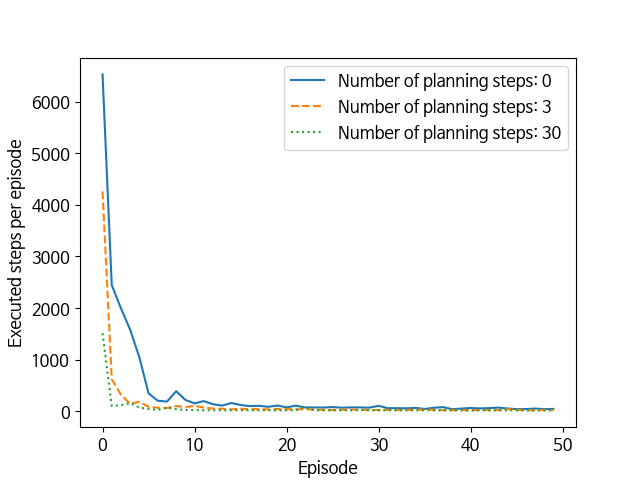
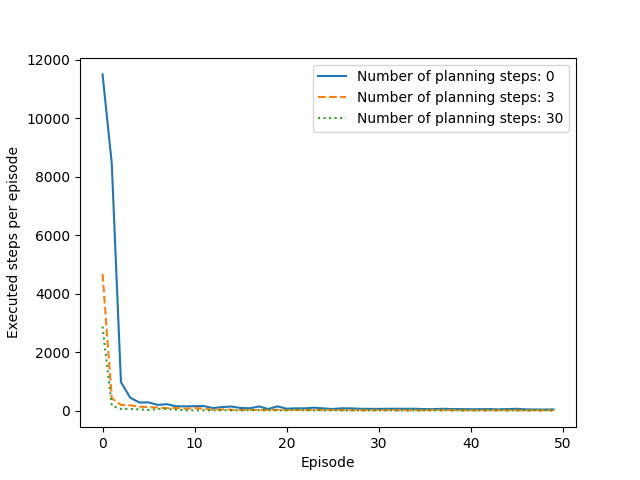
...

diff --git a/basic2/practice_4/cliff_dyna_q.py b/basic2/practice_4/cliff_dyna_q.py
@@ -4,7 +4,18 @@ import random
 import numpy as np
 import matplotlib.pyplot as plt
 
-from basic.practice_1.maze import Maze
+from basic.practice_1.gridworld import GridWorld
+
+# 그리드월드 높이와 너비
+GRID_HEIGHT = 4
+GRID_WIDTH = 12
+
+NUM_ACTIONS = 4
+
+# 초기 상태와 종료 상태
+START_STATE = (3, 0)
+TERMINAL_STATES = [(3, 11)]
+CLIFF_STATES = [(3, 1), (3, 2), (3, 3), (3, 4), (3, 5), (3, 6), (3, 7), (3, 8), (3, 9), (3, 10)]
 
 # 최대 에피소드
 MAX_EPISODES = 50
@@ -42,7 +53,7 @@ class EnvModel:
 
         self.model[state][action] = [reward, next_state]
 
-    # 저장해 둔 경험 샘플들에서 임으로 선택하여 반환
+    # 저장해 둔 경험 샘플들에서 임으로 선택하여 반환험
     def sample(self):
         state = random.choice(list(self.model.keys()))
         action = random.choice(list(self.model[state].keys()))
@@ -52,11 +63,11 @@ class EnvModel:
 
 # 비어있는 행동 가치 함수를 0~1 사이의 임의의 값으로 초기화하며 생성함
 def generate_initial_q_value(env):
-    q_table = np.zeros((env.MAZE_HEIGHT, env.MAZE_WIDTH, env.action_space.NUM_ACTIONS))
+    q_table = np.zeros((GRID_HEIGHT, GRID_WIDTH, env.action_space.NUM_ACTIONS))
 
-    for i in range(env.MAZE_HEIGHT):
-        for j in range(env.MAZE_WIDTH):
-            if (i, j) not in env.observation_space.GOAL_STATES:
+    for i in range(GRID_HEIGHT):
+        for j in range(GRID_WIDTH):
+            if (i, j) not in env.observation_space.TERMINAL_STATES:
                 for action in env.action_space.ACTIONS:
                     q_table[i, j, action] = random.random()
     return q_table
@@ -67,9 +78,9 @@ def generate_initial_q_value(env):
 def generate_initial_random_policy(env):
     policy = dict()
 
-    for i in range(env.MAZE_HEIGHT):
-        for j in range(env.MAZE_WIDTH):
-            if (i, j) not in env.observation_space.GOAL_STATES:
+    for i in range(GRID_HEIGHT):
+        for j in range(GRID_WIDTH):
+            if (i, j) not in env.observation_space.TERMINAL_STATES:
                 actions = []
                 prob = []
                 for action in env.action_space.ACTIONS:
@@ -146,7 +157,7 @@ def dyna_q(q_table, policy, env_model, env, episode, planning_repeat, step_size=
     return steps, rewards
 
 
-def maze_dyna_q(env):
+def cliff_dyna_q(env):
     planning_repeats = [0, 3, 30]
     performance_steps = np.zeros((len(planning_repeats), MAX_EPISODES))
 
@@ -174,7 +185,7 @@ def maze_dyna_q(env):
     plt.xlabel('Episode')
     plt.ylabel('Executed steps per episode')
     plt.legend()
-    plt.savefig('images/maze_dyna_q.png')
+    plt.savefig('images/cliff_dyna_q.png')
     plt.close()
 
 
@@ -183,8 +194,15 @@ if __name__ == '__main__':
     if not os.path.exists('images/'):
         os.makedirs('images/')
 
-    env = Maze()  # 미로 환경 객체 구성
-    env.reset()
-    print(env)
+    env = GridWorld(
+        height=GRID_HEIGHT,
+        width=GRID_WIDTH,
+        start_state=START_STATE,
+        terminal_states=TERMINAL_STATES,
+        transition_reward=-1.0,
+        terminal_reward=-1.0,
+        outward_reward=-1.0,
+        warm_hole_states=[(s, START_STATE, -100.0) for s in CLIFF_STATES]
+    )
 
-    maze_dyna_q(env)
+    cliff_dyna_q(env)

diff --git a/basic2/practice_3/cliff_td_scheduled_comparison.py b/basic2/practice_3/cliff_td_scheduled_comparison.py
@@ -22,11 +22,16 @@ START_STATE = (3, 0)
 TERMINAL_STATES = [(3, 11)]
 CLIFF_STATES = [(3, 1), (3, 2), (3, 3), (3, 4), (3, 5), (3, 6), (3, 7), (3, 8), (3, 9), (3, 10)]
 
+# 최대 에피소드
 MAX_EPISODES = 500
 
+# 탐색(exploration) 확률 파라미터
 INITIAL_EPSILON = 0.1
 FINAL_EPSILON = 0.01
 LAST_SCHEDULED_EPISODES = 350
+
+# 총 실험 횟수 (성능에 대한 평균을 구하기 위함)
+TOTAL_RUNS = 25
 
 
 def epsilon_scheduled(current_episode):
@@ -204,9 +209,6 @@ def print_optimal_policy(env, q_value):
 
 
 def td_comparison(env):
-    # 25번의 실험
-    runs = 25
-
     rewards_expected_sarsa = np.zeros(MAX_EPISODES)
     rewards_sarsa = np.zeros(MAX_EPISODES)
     rewards_q_learning = np.zeros(MAX_EPISODES)
@@ -216,7 +218,7 @@ def td_comparison(env):
     q_table_q_learning = None
     q_table_expected_sarsa = None
 
-    for run in range(runs):
+    for run in range(TOTAL_RUNS):
         print("runs: {0}".format(run))
 
         # 초기 Q-Table 생성
@@ -234,10 +236,10 @@ def td_comparison(env):
             rewards_q_learning[episode] += q_learning(env, q_table_q_learning, policy_q_learning, episode)
             rewards_expected_sarsa[episode] += expected_sarsa(env, q_table_expected_sarsa, policy_expected_sarsa, episode)
 
-    # 50번의 수행에 대해 평균 계산
-    rewards_expected_sarsa /= runs
-    rewards_sarsa /= runs
-    rewards_q_learning /= runs
+    # 총 25번의 수행에 대해 평균 계산
+    rewards_expected_sarsa /= TOTAL_RUNS
+    rewards_sarsa /= TOTAL_RUNS
+    rewards_q_learning /= TOTAL_RUNS
 
     # 그래프 출력
     plt.plot(rewards_sarsa, linestyle='-', color='darkorange', label='SARSA')

diff --git a/basic2/practice_3/cliff_td_comparison.py b/basic2/practice_3/cliff_td_comparison.py
@@ -25,8 +25,11 @@ START_STATE = (3, 0)
 TERMINAL_STATES = [(3, 11)]
 CLIFF_STATES = [(3, 1), (3, 2), (3, 3), (3, 4), (3, 5), (3, 6), (3, 7), (3, 8), (3, 9), (3, 10)]
 
+# 최대 에피소드
 MAX_EPISODES = 500
 
+# 총 실험 횟수 (성능에 대한 평균을 구하기 위함)
+TOTAL_RUNS = 25
 
 # 비어있는 행동 가치 함수를 0~1 사이의 임의의 값으로 초기화하며 생성함
 def generate_initial_q_value(env):
@@ -194,9 +197,6 @@ def print_optimal_policy(env, q_value):
 
 
 def td_comparison(env):
-    # 25번의 실험
-    runs = 25
-
     rewards_expected_sarsa = np.zeros(MAX_EPISODES)
     rewards_sarsa = np.zeros(MAX_EPISODES)
     rewards_q_learning = np.zeros(MAX_EPISODES)
@@ -206,7 +206,7 @@ def td_comparison(env):
     q_table_q_learning = None
     q_table_expected_sarsa = None
 
-    for run in range(runs):
+    for run in range(TOTAL_RUNS):
         print("runs: {0}".format(run))
 
         # 초기 Q-Table 생성
@@ -224,10 +224,10 @@ def td_comparison(env):
             rewards_q_learning[episode] += q_learning(env, q_table_q_learning, policy_q_learning)
             rewards_expected_sarsa[episode] += expected_sarsa(env, q_table_expected_sarsa, policy_expected_sarsa)
 
-    # 50번의 수행에 대해 평균 계산
-    rewards_expected_sarsa /= runs
-    rewards_sarsa /= runs
-    rewards_q_learning /= runs
+    # 총 25번의 수행에 대해 평균 계산
+    rewards_sarsa /= TOTAL_RUNS
+    rewards_q_learning /= TOTAL_RUNS
+    rewards_expected_sarsa /= TOTAL_RUNS
 
     # 그래프 출력
     plt.plot(rewards_sarsa, linestyle='-', color='darkorange', label='SARSA')

diff --git a/utils/util.py b/utils/util.py
@@ -213,35 +213,3 @@ def draw_random_walk_policy_image(policy, env):
     print(randomwalk_str)
 
 
-# 행동 가치함수를 표 형태로 그리는 함수
-def draw_q_value_image_for_maze(env, q_value, run, planning_steps, episode):
-    # 축 표시 제거, 크기 조절 등 이미지 그리기 이전 설정 작업
-    fig, axis = plt.subplots()
-    axis.set_axis_off()
-    table = Table(axis, bbox=[0, 0, 1, 1])
-
-    num_rows, num_cols = env.MAZE_HEIGHT, env.MAZE_WIDTH
-    width, height = 1.0 / num_cols, 1.0 / num_rows
-
-    for i in range(env.MAZE_HEIGHT):
-        for j in range(env.MAZE_WIDTH):
-            if np.sum(q_value[i][j]) == 0.0:
-                symbol = " "
-            else:
-                action_idx = np.argmax(q_value[i][j])
-                symbol = env.action_space.ACTION_SYMBOLS[action_idx]
-            table.add_cell(i, j, width, height, text=symbol, loc='center', facecolor='white')
-
-    # 행, 열 라벨 추가
-    for i in range(env.MAZE_HEIGHT):
-        table.add_cell(i, -1, width, height, text=i, loc='right', edgecolor='none', facecolor='none')
-
-    for j in range(env.MAZE_WIDTH):
-        table.add_cell(-1, j, width, height/2, text=j, loc='center', edgecolor='none', facecolor='none')
-
-    for key, cell in table.get_celld().items():
-         cell.get_text().set_fontsize(20)
-
-    axis.add_table(table)
-    plt.savefig('images/maze_action_values_{0}_{1}_{2}.png'.format(run, planning_steps, episode))
-    plt.close()

diff --git a/basic/practice_1/maze.py b/basic/practice_1/maze.py
@@ -44,9 +44,6 @@ class Maze(gym.Env):
             (5, 7), (5, 8)
         ]
 
-        # 최대 타임 스텝
-        self.max_steps = float('inf')
-
         self.current_state = None
 
     def reset(self):
@@ -81,7 +78,7 @@ class Maze(gym.Env):
         else:
             done = False
 
-        return reward, (x, y), done, None
+        return (x, y), reward, done, None
 
     def render(self):
         print(self.__str__())

diff --git a/basic/practice_1/randomwalk.py b/basic/practice_1/randomwalk.py
@@ -40,9 +40,6 @@ class RandomWalk(gym.Env):
         # 시작 상태 위치
         self.observation_space.START_STATE = self.observation_space.STATES[int(num_internal_states / 2)]
 
-        # 최대 타임 스텝
-        self.max_steps = float('inf')
-
         self.transition_reward = transition_reward
 
         self.left_terminal_reward = left_terminal_reward

diff --git a/basic/practice_1/gridworld.py b/basic/practice_1/gridworld.py
@@ -69,9 +69,6 @@ class GridWorld(gym.Env):
         # 웜홀 상태 위치
         self.observation_space.WARM_HOLE_STATES = warm_hole_states
 
-        # 최대 타임 스텝
-        self.max_steps = float('inf')
-
         self.transition_reward = transition_reward
 
         self.terminal_reward = terminal_reward
